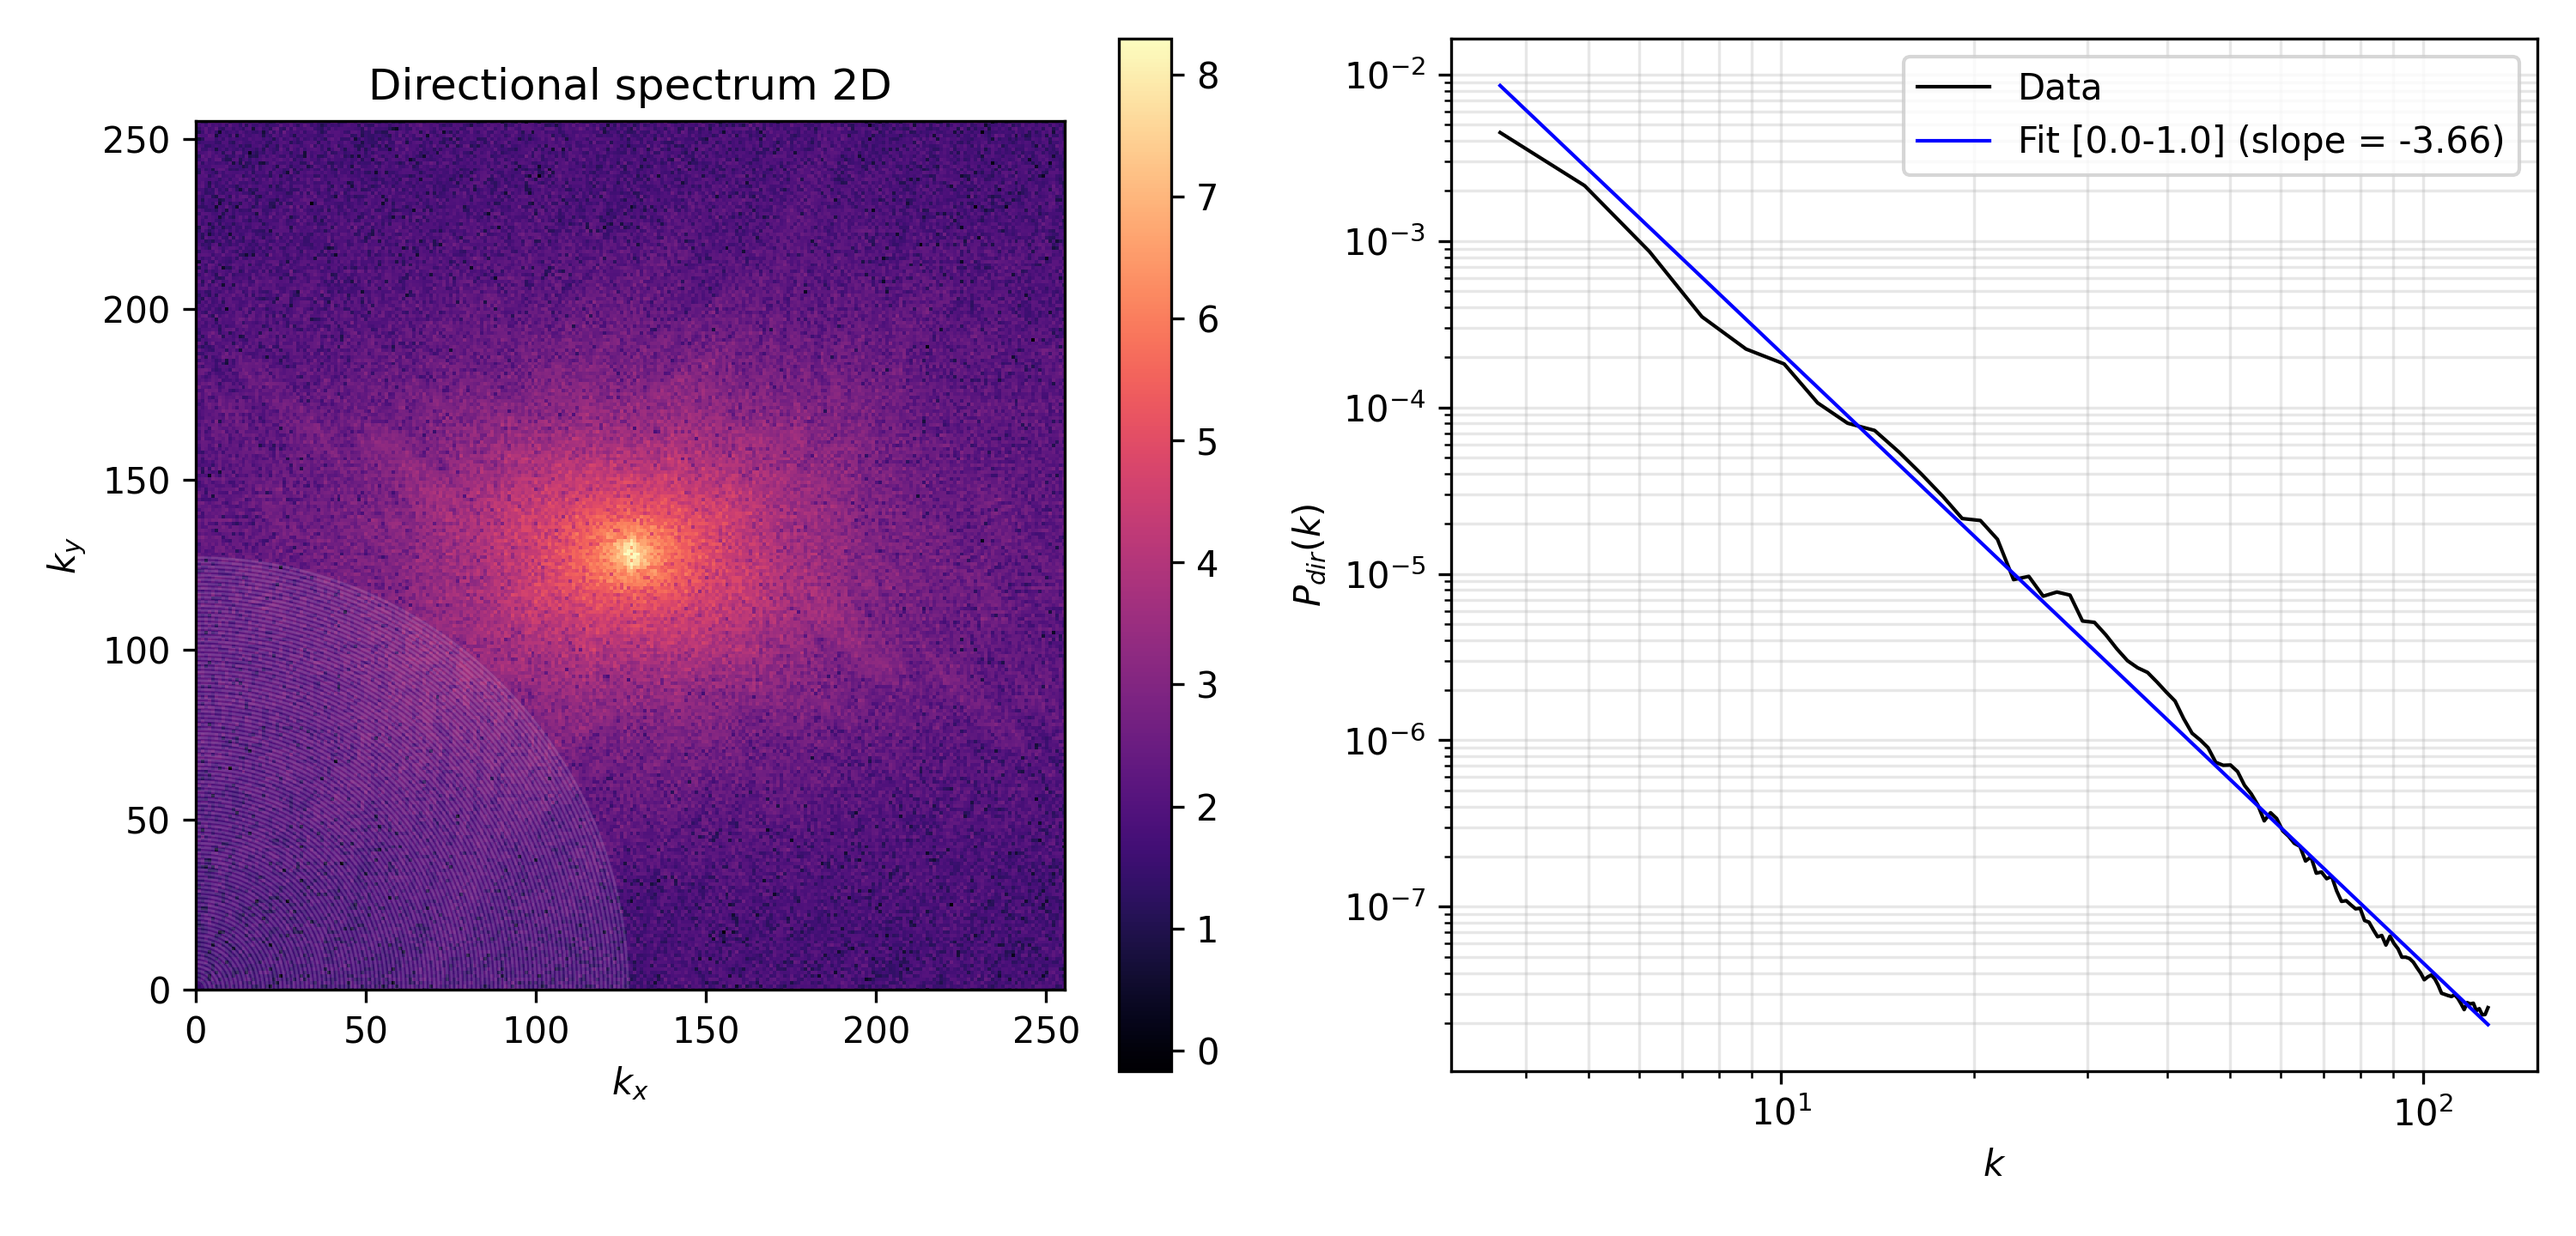
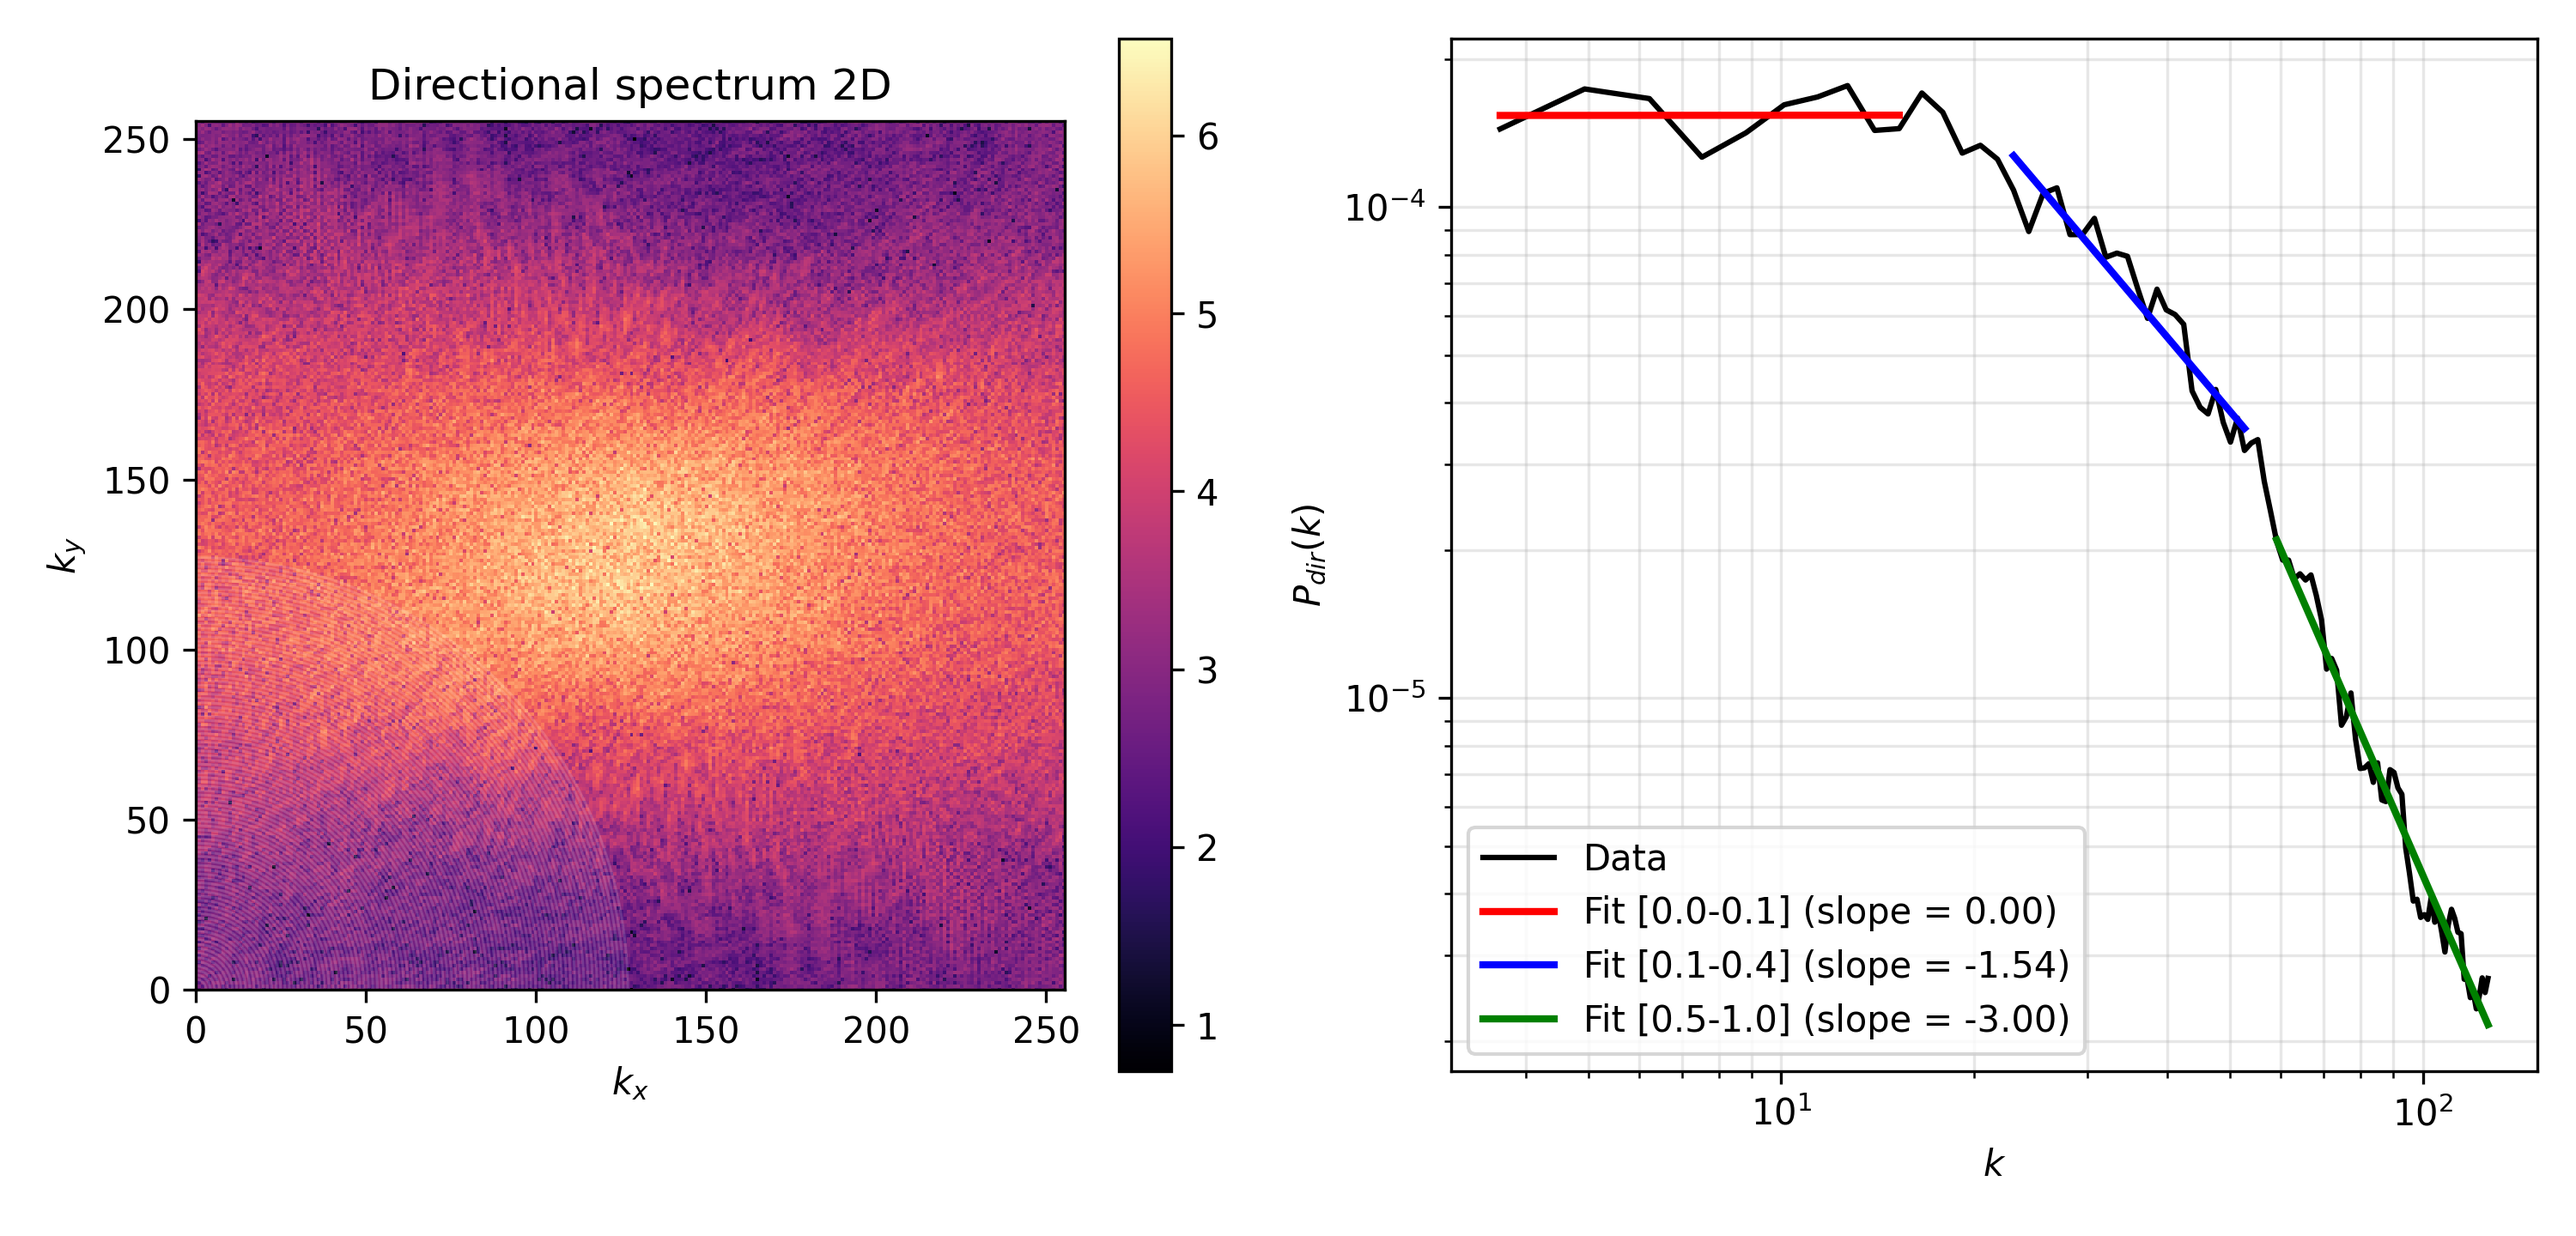
Three slope region
Three slope region that Dmitri mentioned in LP16:
Plateau => -3+m_\phi => -3-m_\phi

diff --git a/compare_measures/directional_spectrum/directional_spectrum_single_lambda.py b/compare_measures/directional_spectrum/directional_spectrum_single_lambda.py
@@ -4,7 +4,7 @@ import h5py, matplotlib.pyplot as plt
 h5_path = r"D:\Рабочая папка\GitHub\AstroTurbulence\faradays_angles_stats\lp_structure_tests\ms01ma08.mhd_w.00300.vtk.h5"
 los_axis = 2
 C = 1.0
-lam = 0.00
+lam = 2.2
 emit_frac = (0.15, 1.00)
 screen_frac = (0.00, 0.10)
 ring_bins = 48*2
@@ -136,7 +136,7 @@ ax1.set_ylabel("$k_y$")
 plt.xlim(left=0)
 plt.ylim(bottom=0)
 
-def plot_fit(ax, kc, Pdir, frac_min, frac_max, linestyle='-', label_prefix='Fit'):
+def plot_fit(ax, kc, Pdir, frac_min, frac_max, color, linestyle='-', label_prefix='Fit'):
     k_min = kc.min()
     k_max = kc.max()
     k_range = k_max - k_min
@@ -156,16 +156,20 @@ def plot_fit(ax, kc, Pdir, frac_min, frac_max, linestyle='-', label_prefix='Fit'
         k_fit_line = np.logspace(np.log10(kc_fit.min()), np.log10(kc_fit.max()), 100)
         P_fit_line = np.exp(intercept) * k_fit_line**slope
         
-        ax.loglog(k_fit_line, P_fit_line, linestyle=linestyle, lw=1, color="blue",
+        ax.loglog(k_fit_line, P_fit_line, linestyle=linestyle, lw=2, color=color,
                    label=f'{label_prefix} [{frac_min:.1f}-{frac_max:.1f}] (slope = {slope:.2f})')
         return slope
     return None
 
 ax2 = plt.subplot(1,2,2)
-ax2.loglog(kc, Pdir, '-', color='black', ms=4, lw=1, label='Data')
+ax2.loglog(kc, Pdir, '-', color='black', ms=4, lw=1.5, label='Data')
 
-# plot_fit(ax2, kc, Pdir, 0.0, 0.4)
-plot_fit(ax2, kc, Pdir, 0.0, 1.0)
+
+# print(np.sqrt(min(kc)*max(kc))/max(kc))
+plot_fit(ax2, kc, Pdir, 0, 0.1, "red")
+plot_fit(ax2, kc, Pdir, 0.15, 0.4, "blue")
+plot_fit(ax2, kc, Pdir, 0.45, 1.0, "green")
+# plot_fit(ax2, kc, Pdir, 0.17, 1.0)
 # plot_fit(ax2, kc, Pdir, 0.6, 0.8)
 # # plot_fit(ax2, kc, Pdir, 0.6, 0.8)
 # plot_fit(ax2, kc, Pdir, 0.4, 1.0)
